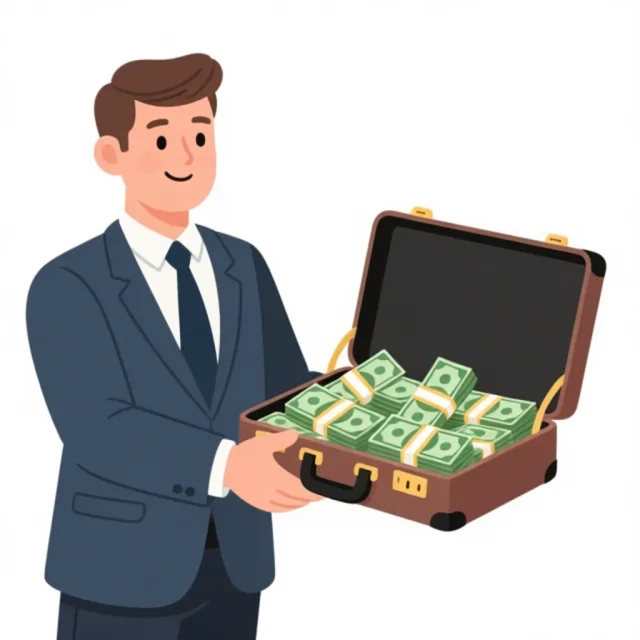
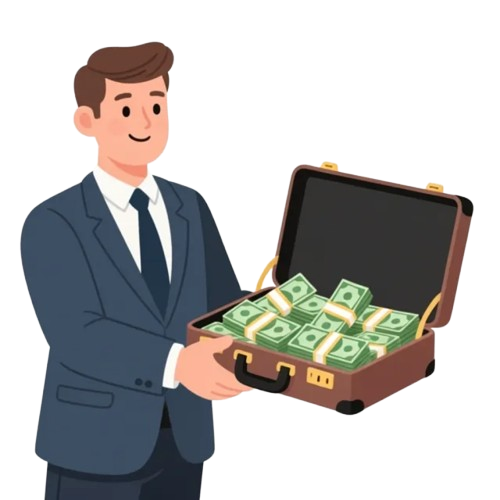
game page colors updated

diff --git a/components/game/PlayerCard.tsx b/components/game/PlayerCard.tsx
@@ -1,5 +1,3 @@
-import BankSvg from "@/assets/svg/bank.svg";
-import CoinSvg from "@/assets/svg/coin.svg";
 import type { Player } from "@/types/game";
 import { Ionicons } from "@expo/vector-icons";
 import { StyleSheet, Text, View } from "react-native";
@@ -25,10 +23,10 @@ function InfoRow({
   return (
     <View style={compact ? styles.infoRowCompact : styles.infoRow}>
       {icon && <View style={styles.iconWrap}>{icon}</View>}
-      <Text style={[compact ? styles.labelCompact : styles.label]}>
+      <Text style={compact ? styles.labelCompact : styles.label}>
         {label}
       </Text>
-      <Text style={[compact ? styles.valueCompact : styles.value]}>
+      <Text style={compact ? styles.valueCompact : styles.value}>
         {value}
       </Text>
     </View>
@@ -40,63 +38,39 @@ export default function PlayerCard({
   compact = false,
   children,
 }: PlayerCardProps) {
-  const isSavings = player.accountType === "Savings";
   const iconSize = compact ? 12 : 16;
   const mailCount =
     player.lotteryTickets.length +
     player.unpaidBills.length +
     player.insurance.length;
 
-  const avatar = (
-    <View
-      style={[
-        compact ? styles.avatarCompact : styles.avatar,
-        { backgroundColor: player.color },
-      ]}
-    >
-      <Text
-        style={compact ? styles.avatarInitialCompact : styles.avatarInitial}
-      >
-        {player.name.charAt(0).toUpperCase()}
-      </Text>
-    </View>
-  );
-
-  const infoRows = (
-    <View style={styles.infoSection}>
-      <InfoRow label="Player:" value={player.name} compact={compact} />
-      <InfoRow
-        icon={<CoinSvg width={iconSize} height={iconSize} />}
-        label="Cash:"
-        value={`$${player.cash.toLocaleString()}`}
-        compact={compact}
-      />
-      <InfoRow
-        icon={<BankSvg width={iconSize} height={iconSize} />}
-        label={isSavings ? "Savings:" : "Loan:"}
-        value={`$${(isSavings ? player.savingsBalance : player.loanBalance).toLocaleString()}`}
-        compact={compact}
-      />
-      <InfoRow
-        icon={<Ionicons name="briefcase" size={iconSize} color="#7B1FA2" />}
-        label="Deals:"
-        value={String(player.deals.length)}
-        compact={compact}
-      />
-      <InfoRow
-        icon={<Ionicons name="mail" size={iconSize} color="#1E88E5" />}
-        label="Mail:"
-        value={String(mailCount)}
-        compact={compact}
-      />
-    </View>
-  );
-
   return (
     <View style={compact ? styles.cardCompact : styles.card}>
       <View style={styles.body}>
-        {avatar}
-        {infoRows}
+        <View style={styles.infoSection}>
+          <Text style={compact ? styles.statusTitleCompact : styles.statusTitle}>
+            Player Status
+          </Text>
+          <InfoRow
+            label="Current Day:"
+            value={`Day ${player.position}`}
+            compact={compact}
+          />
+          <InfoRow
+            icon={
+              <Ionicons name="briefcase" size={iconSize} color="#7B1FA2" />
+            }
+            label="Total Deals:"
+            value={String(player.deals.length)}
+            compact={compact}
+          />
+          <InfoRow
+            icon={<Ionicons name="mail" size={iconSize} color="#1E88E5" />}
+            label="Mail Items:"
+            value={String(mailCount)}
+            compact={compact}
+          />
+        </View>
         {children}
       </View>
     </View>
@@ -105,70 +79,35 @@ export default function PlayerCard({
 
 const styles = StyleSheet.create({
   card: {
-    backgroundColor: "rgba(245, 240, 225, 0.9)",
+    backgroundColor: "#b7f4d5",
     borderRadius: 16,
     borderWidth: 3,
     borderColor: "#C1D6CA",
     padding: 12,
   },
   cardCompact: {
-    backgroundColor: "rgba(245, 240, 225, 0.9)",
+    backgroundColor: "#b7f4d5",
     borderRadius: 12,
     borderWidth: 1,
-    borderColor: "rgba(255,255,255,0.6)",
+    borderColor: "#C1D6CA",
     padding: 8,
   },
-  title: {
-    color: "#0984E3",
+  statusTitle: {
     fontWeight: "800",
     fontSize: 16,
-    textAlign: "center",
-    marginBottom: 8,
+    color: "#2D3436",
+    marginBottom: 4,
   },
-  titleCompact: {
-    color: "#0984E3",
+  statusTitleCompact: {
     fontWeight: "800",
     fontSize: 13,
-    textAlign: "center",
-    marginBottom: 6,
-  },
-  divider: {
-    height: 2,
-    backgroundColor: "rgba(255,255,255,0.4)",
-    marginBottom: 10,
+    color: "#2D3436",
+    marginBottom: 2,
   },
   body: {
     flexDirection: "row",
     alignItems: "center",
     gap: 12,
-  },
-  avatar: {
-    width: 50,
-    height: 50,
-    borderRadius: 25,
-    alignItems: "center",
-    justifyContent: "center",
-    borderWidth: 2,
-    borderColor: "rgba(255,255,255,0.8)",
-  },
-  avatarCompact: {
-    width: 36,
-    height: 36,
-    borderRadius: 18,
-    alignItems: "center",
-    justifyContent: "center",
-    borderWidth: 2,
-    borderColor: "rgba(255,255,255,0.8)",
-  },
-  avatarInitial: {
-    color: "#fff",
-    fontWeight: "800",
-    fontSize: 20,
-  },
-  avatarInitialCompact: {
-    color: "#fff",
-    fontWeight: "800",
-    fontSize: 15,
   },
   infoSection: {
     flex: 1,
@@ -192,13 +131,13 @@ const styles = StyleSheet.create({
     color: "#2D3436",
     fontSize: 13,
     fontWeight: "600",
-    width: 68,
+    width: 90,
   },
   labelCompact: {
     color: "#2D3436",
     fontSize: 11,
     fontWeight: "600",
-    width: 56,
+    width: 72,
   },
   value: {
     color: "#2D3436",

diff --git a/app/game.tsx b/app/game.tsx
@@ -76,11 +76,7 @@ function gameReducer(state: GameState, action: GameAction): GameState {
 
       const updatedPlayers = state.players.map((player, i) => {
         if (i !== playerIndex) return player;
-        return {
-          ...player,
-          position: to,
-          ...(event ? { cash: player.cash + event.amount } : {}),
-        };
+        return { ...player, position: to };
       });
 
       // Deal space: draw a card from the deck
@@ -183,7 +179,14 @@ function gameReducer(state: GameState, action: GameAction): GameState {
       };
     }
     case "DISMISS_EVENT": {
-      return { ...state, eventMessage: null, phase: "end-turn" };
+      const amount = state.eventMessage?.amount ?? 0;
+      const updatedPlayers = amount !== 0
+        ? state.players.map((player, i) => {
+            if (i !== state.currentPlayerIndex) return player;
+            return { ...player, cash: player.cash + amount };
+          })
+        : state.players;
+      return { ...state, players: updatedPlayers, eventMessage: null, phase: "end-turn" };
     }
     case "BUY_DEAL": {
       if (!state.currentDeal) return state;
@@ -515,6 +518,8 @@ export default function Game() {
     ]);
   };
 
+  const isSavings = currentPlayer.accountType === "Savings";
+
   const header = (
     <View style={styles.header}>
       <Pressable
@@ -532,16 +537,28 @@ export default function Game() {
       >
         Month {currentPlayer.currentMonth} of {gameState.totalMonths}
       </Text>
-      <Pressable
-        onPress={() => router.replace("/how-to-play")}
-        style={isLandscape ? styles.exitButtonSmall : styles.exitButton}
-      >
-        <Ionicons
-          name="help"
-          size={isLandscape ? 18 : 22}
-          color={COLORS.white}
-        />
-      </Pressable>
+      <View style={styles.playerBadge}>
+        <View
+          style={[styles.badgeAvatar, { backgroundColor: currentPlayer.color }]}
+        >
+          <Text style={styles.badgeInitial}>
+            {currentPlayer.name.charAt(0).toUpperCase()}
+          </Text>
+        </View>
+        <View>
+          <Text style={styles.badgeName}>{currentPlayer.name}</Text>
+          <Text style={styles.badgeInfo}>
+            Cash: ${currentPlayer.cash.toLocaleString()}
+          </Text>
+          <Text style={styles.badgeInfo}>
+            {isSavings ? "Savings" : "Loan"}: $
+            {(isSavings
+              ? currentPlayer.savingsBalance
+              : currentPlayer.loanBalance
+            ).toLocaleString()}
+          </Text>
+        </View>
+      </View>
     </View>
   );
 
@@ -813,6 +830,39 @@ const styles = StyleSheet.create({
     paddingHorizontal: SPACING.md,
     paddingVertical: SPACING.sm,
   },
+  playerBadge: {
+    flexDirection: "row",
+    alignItems: "center",
+    backgroundColor: "#b7f4d5",
+    borderRadius: 12,
+    paddingHorizontal: 10,
+    paddingVertical: 6,
+    gap: 8,
+  },
+  badgeAvatar: {
+    width: 32,
+    height: 32,
+    borderRadius: 16,
+    alignItems: "center",
+    justifyContent: "center",
+    borderWidth: 2,
+    borderColor: "rgba(255,255,255,0.8)",
+  },
+  badgeInitial: {
+    color: "#fff",
+    fontWeight: "800" as const,
+    fontSize: 14,
+  },
+  badgeName: {
+    fontWeight: "800" as const,
+    fontSize: 12,
+    color: "#2D3436",
+  },
+  badgeInfo: {
+    fontSize: 10,
+    fontWeight: "600" as const,
+    color: "#2D3436",
+  },
   exitButton: {
     width: 36,
     height: 36,
@@ -866,8 +916,8 @@ const styles = StyleSheet.create({
     alignItems: "center",
     gap: 5,
     backgroundColor: COLORS.primary,
-    paddingHorizontal: 14,
-    paddingVertical: 8,
+    paddingHorizontal: 18,
+    paddingVertical: 10,
     borderRadius: 9,
     borderBottomWidth: 4, // 3D effect
   },
@@ -891,7 +941,7 @@ const styles = StyleSheet.create({
     opacity: 0.5,
   },
   actionText: {
-    fontSize: 13,
+    fontSize: 14,
     fontWeight: "700",
     color: COLORS.white,
   },

diff --git a/components/game/BoardCell.tsx b/components/game/BoardCell.tsx
@@ -1,5 +1,5 @@
 import { SPACE_CONFIG } from "@/constants/board";
-import { COLORS } from "@/constants/colors";
+
 import type { SpaceType } from "@/types/game";
 import ElectionSvg from "@/assets/svg/election.svg";
 import PartyPopperSvg from "@/assets/svg/party-popper.svg";
@@ -56,7 +56,7 @@ export default function BoardCell({
     ? "#C8E6C9"
     : isStart
       ? "#E1EEDD"
-      : COLORS.white;
+      : "#F7F3E7";
 
   const cellImage = CELL_IMAGES[type] ?? null;
   const iconSize = Math.min(cellSize, ch) * 0.32;